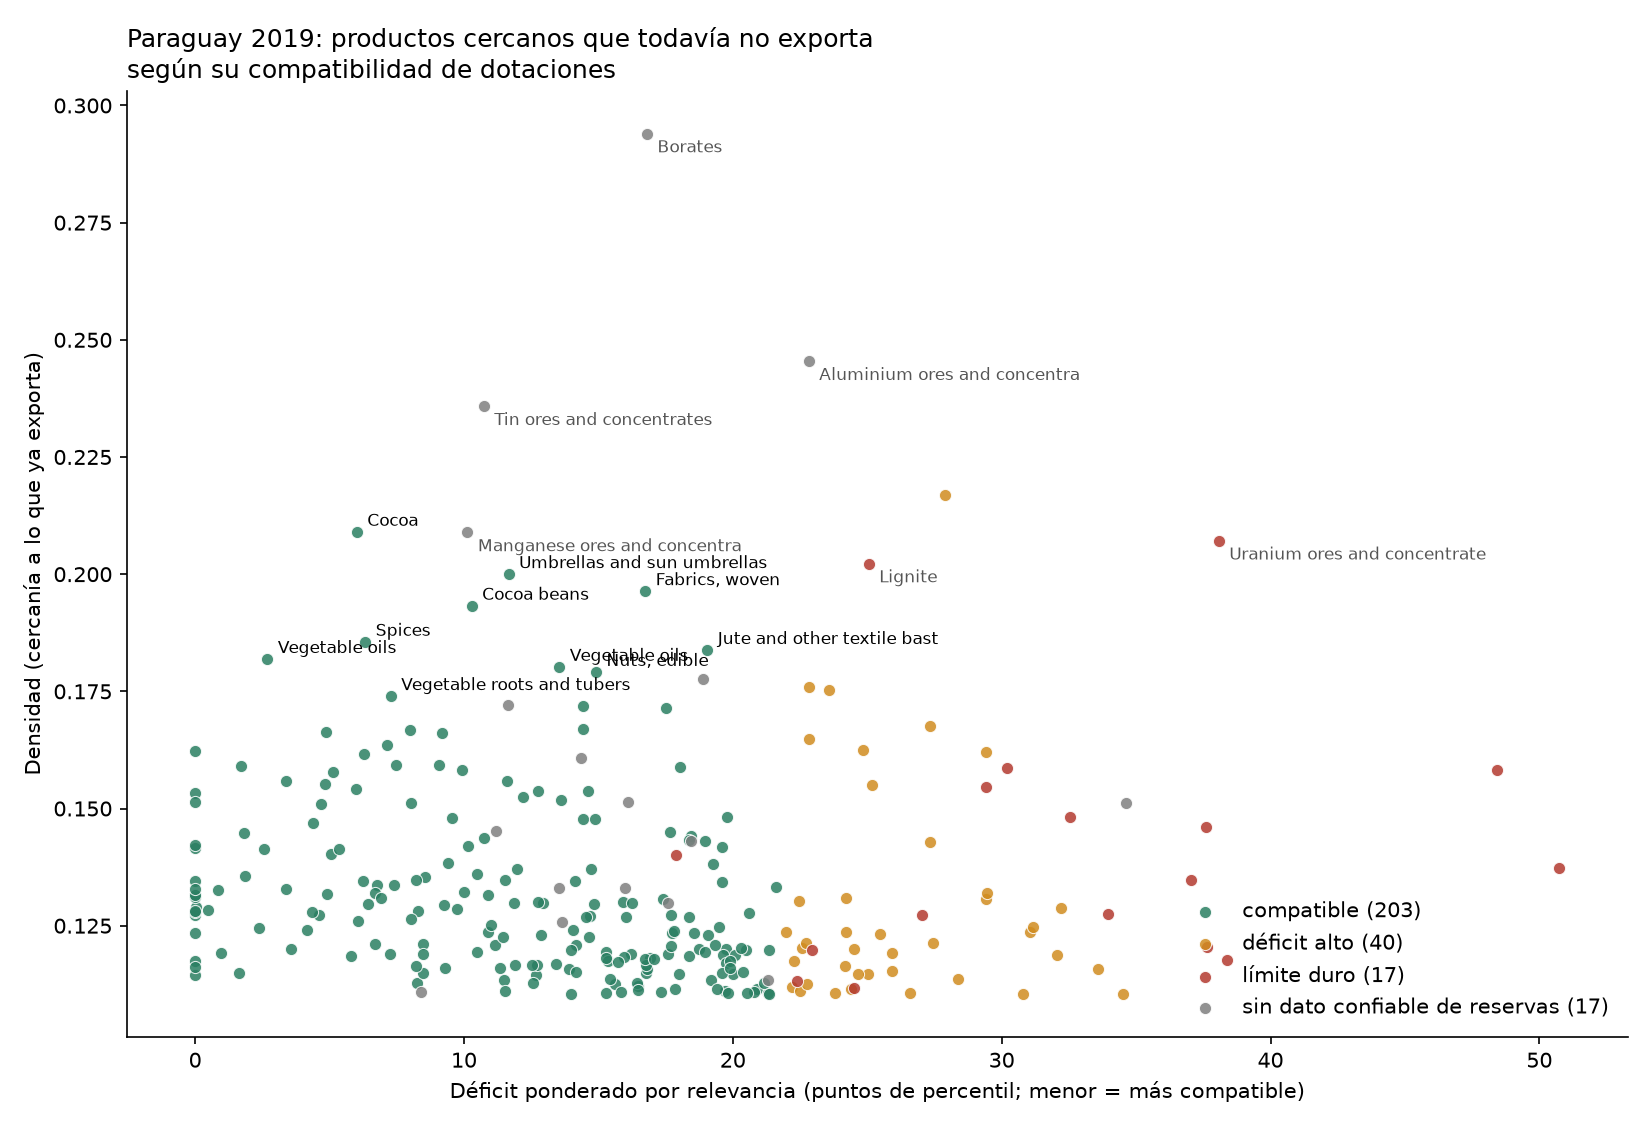
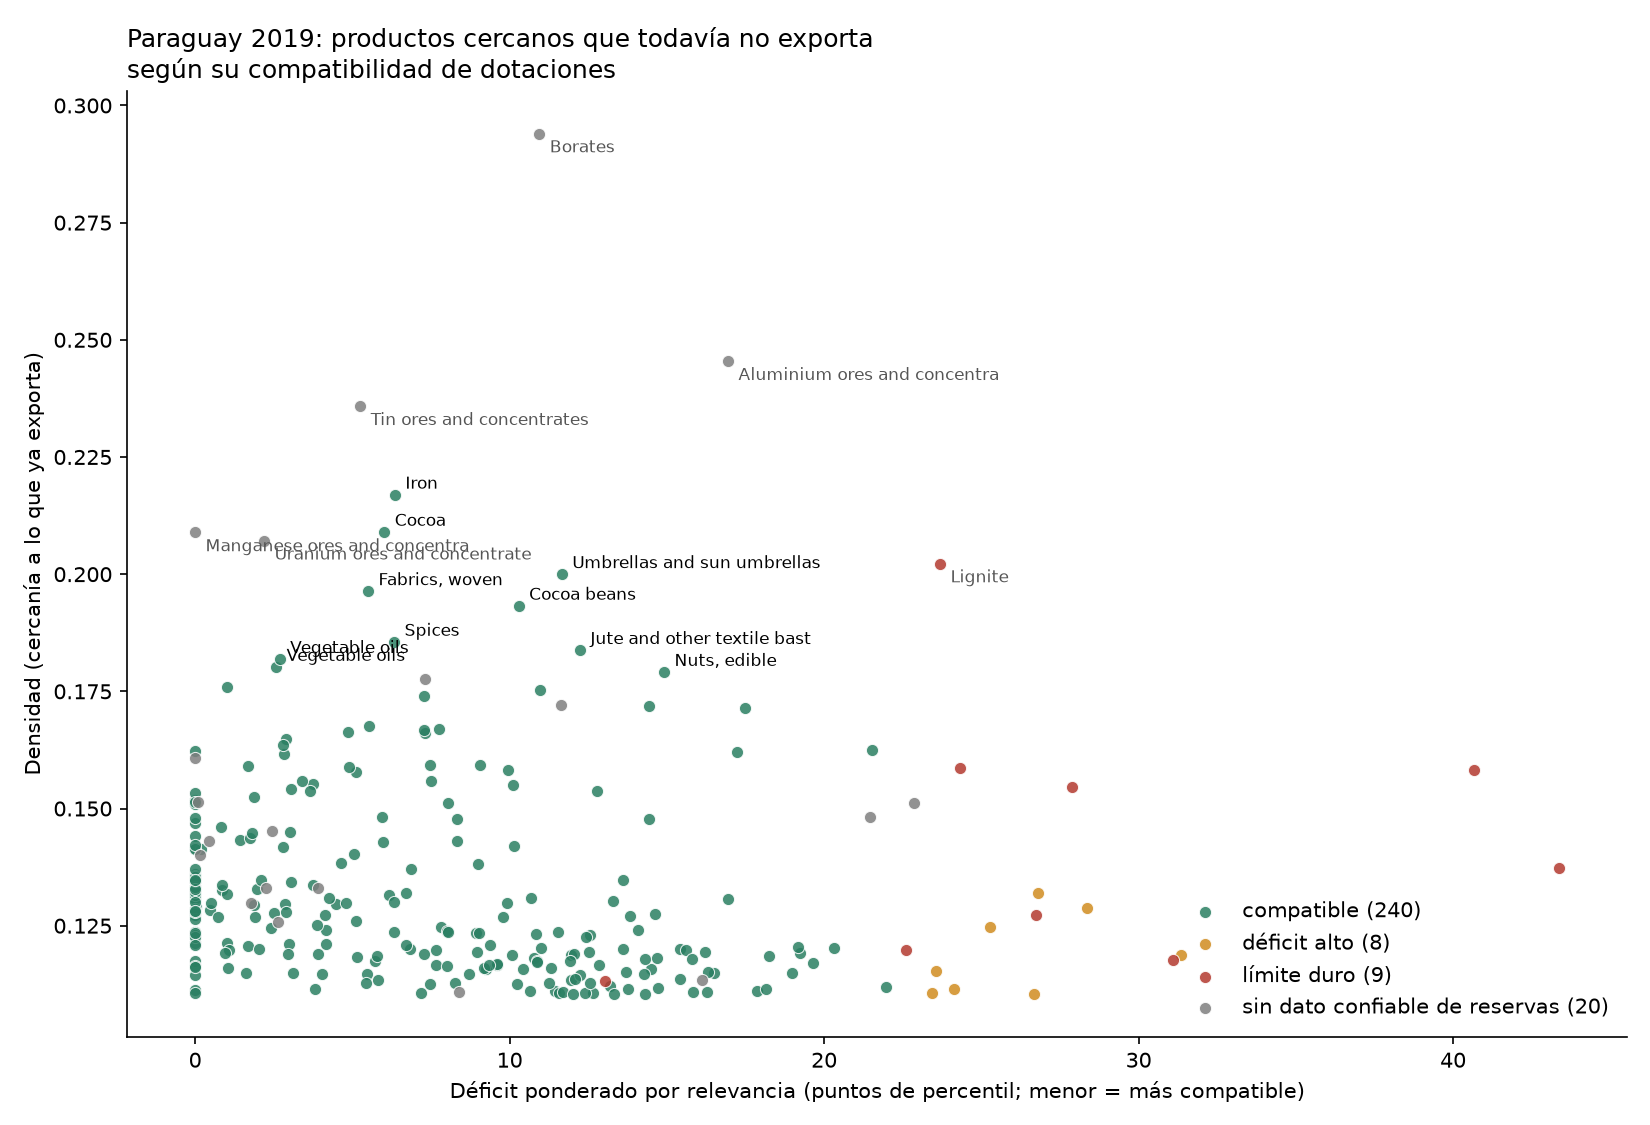
Mapa de limites: reservas de energia solo para los productos que son ese recurso; 9 limites duros entre los cercanos

diff --git a/src/modelos/mapa_limites.py b/src/modelos/mapa_limites.py
@@ -47,6 +47,7 @@ PCT_LIMITE = 10
 CAPA_MINERAL = "riqueza_mineral"  # en la variante específica, la reserva del mineral propio del producto
 PROP_PRODUCTORES_AUSENCIA = 0.75
 # Productos que dependen de una reserva mineral que el USGS no permite afirmar ausente: los 18 de `MINERALES` y el resto de los minerales (capítulo 26 del HS: uranio, circonio...), que el USGS no cubre
+RECURSO_DEL_PRODUCTO = {"l_petroleo": {"2709", "2710"}, "l_gas": {"2711"}, "l_carbon": {"2701", "2702", "2704"}}  # reservas de energía: solo para los productos que son ese recurso
 SIN_DATO_RESERVAS = set(MINERALES)
 ANIO = 2019
 
@@ -160,6 +161,14 @@ def pct_especifico(pct: np.ndarray, paises: list[str], productos: list[str], min
     return pct3, share
 
 
+def solo_recurso_propio(pct: np.ndarray, productos: list[str], capas: list[str], recursos: dict[str, set[str]] = RECURSO_DEL_PRODUCTO) -> np.ndarray:
+    """Copia de `pct` (países × productos × dotaciones) con las capas de `recursos` vacías en los productos que no son ese recurso."""
+    out = pct.copy()
+    for capa, hs4s in recursos.items():
+        out[:, [p for p, h in enumerate(productos) if h not in hs4s], capas.index(capa)] = np.nan
+    return out
+
+
 def limite_ausencia(share: np.ndarray, m: np.ndarray, i: int, minimo: int = MINIMO, prop: float = PROP_PRODUCTORES_AUSENCIA) -> np.ndarray:
     """Productos (booleano) donde el país `i` no tiene reservas del mineral y al menos `prop` de los productores (sin él) sí."""
     out = np.zeros(share.shape[1], bool)
@@ -191,6 +200,7 @@ def construir(expo: pd.DataFrame, dot: pd.DataFrame, pob: pd.DataFrame, puente: 
     share = None
     if minerales is not None:  # variante: reserva del mineral específico de cada producto
         pct, share = pct_especifico(pct, paises, productos, minerales, list(CAPAS).index(CAPA_MINERAL))
+        pct = solo_recurso_propio(pct, productos, list(CAPAS))
     pib = dot[dot.iso3.isin(paises)].set_index("iso3").reindex(paises).pib_pc_ppa
     grupo = terciles(pib).reindex(paises).map({"bajo": 0, "medio": 1, "alto": 2}).fillna(-1).to_numpy(int)
     ref = referencias(pct, m, grupo)["todos"]

diff --git a/tests/test_mapa_limites.py b/tests/test_mapa_limites.py
@@ -81,3 +81,10 @@ def test_estado_marca_sin_dato_de_reservas_solo_si_no_hay_limite_duro():
 
     tabla = pd.DataFrame({"hs4": ["2602", "2602", "0801", "0801"], "n_limites_duros": [0, 1, 0, 0], "compatible": [True, False, True, False]})
     assert ml.estado(tabla).tolist() == ["sin dato confiable de reservas", "límite duro", "compatible", "déficit alto"]
+
+
+def test_reservas_de_energia_solo_en_los_productos_que_son_ese_recurso():
+    pct = np.ones((2, 3, 2))
+    out = ml.solo_recurso_propio(pct, ["2701", "1206", "2709"], ["l_carbon", "x"], {"l_carbon": {"2701"}})
+    assert out[0, 0, 0] == 1.0 and np.isnan(out[:, 1:, 0]).all()  # el carbón solo cuenta para el 2701
+    assert (out[:, :, 1] == 1.0).all() and (pct == 1.0).all()  # otras capas intactas y el original no se modifica

diff --git a/src/modelos/evaluacion.py b/src/modelos/evaluacion.py
@@ -5,7 +5,8 @@ Uso:
     from src.modelos.evaluacion import precision_at_k, auc_pr, calibracion
 """
 
-from typing import Sequence
+from collections.abc import Sequence
+
 import numpy as np
 from sklearn.metrics import average_precision_score, roc_auc_score
 
@@ -14,8 +15,7 @@ def precision_at_k(y_true: Sequence[int], y_score: Sequence[float], k: int = 20)
     """Fracción de positivos en los k con mayor score."""
     y_true = np.asarray(y_true)
     y_score = np.asarray(y_score)
-    if k > len(y_score):
-        k = len(y_score)
+    k = min(k, len(y_score))
     idx = np.argsort(y_score)[::-1][:k]
     return float(y_true[idx].mean())
 

diff --git a/src/modelos/densidad.py b/src/modelos/densidad.py
@@ -3,9 +3,10 @@ Proximidad (φ) por ventana y densidad (D3).
 Versión con debug paso a paso.
 """
 
-import duckdb
 import sys
 import traceback
+
+import duckdb
 
 DB_PATH = r"C:\ever\tape\db\econofold.duckdb"
 VENTANAS = [(1995, 1999), (2000, 2004), (2005, 2009), (2010, 2014),
@@ -112,7 +113,7 @@ def main():
         try:
             calcular_phi(con, ini, fin)
             calcular_densidad(con, ini, fin)
-        except Exception as e:
+        except Exception:
             print(f"  ERROR en ventana {ini}-{fin}:")
             traceback.print_exc()
 

diff --git a/src/modelos/presencia.py b/src/modelos/presencia.py
@@ -24,6 +24,7 @@ Uso:
 """
 
 import argparse
+
 import duckdb
 
 VENTANAS = [(1995, 1999), (2000, 2004), (2005, 2009),
@@ -74,7 +75,7 @@ def main() -> None:
     ).fetchone()[0]
     print(f"  Pares (country, product, year) con persistencia: {n_persist:,}")
 
-    print(f"\n=== 2. Presencia por ventana (al menos un anio t en la ventana) ===")
+    print("\n=== 2. Presencia por ventana (al menos un anio t en la ventana) ===")
     for ini, fin in VENTANAS:
         tabla = f"presencia_{ini}_{fin}"
         con.execute(f"""

diff --git a/src/modelos/backtest.py b/src/modelos/backtest.py
@@ -8,9 +8,10 @@ Uso:
 """
 
 import argparse
+
 import duckdb
 
-from src.modelos.evaluacion import precision_at_k, auc_pr
+from src.modelos.evaluacion import auc_pr, precision_at_k
 from src.modelos.logit_disperso import LogitEfectosFijos
 
 VENTANAS = [

diff --git a/src/modelos/logit_densidad.py b/src/modelos/logit_densidad.py
@@ -8,9 +8,6 @@ Uso:
 """
 
 import duckdb
-import numpy as np
-import pandas as pd
-import statsmodels.api as sm
 import statsmodels.formula.api as smf
 
 DB_PATH = r"C:\ever\complejidad\econofold.duckdb"

diff --git a/src/modelos/panel.py b/src/modelos/panel.py
@@ -16,6 +16,7 @@ Uso:
 
 import argparse
 from pathlib import Path
+
 import duckdb
 
 HORIZONTES = [5, 10]

diff --git a/src/modelos/depurar.py b/src/modelos/depurar.py
@@ -12,6 +12,7 @@ Uso:
 """
 
 import argparse
+
 import duckdb
 
 HS_ITAIPU = "271600"

diff --git a/docs/supuestos.md b/docs/supuestos.md
@@ -77,3 +77,4 @@ Formato: fecha · decisión · alternativa descartada · motivo · quién decidi
 | 2026-10-14 | **Resultado de la variante «reserva del mineral específico» (`mapa_limites.py --especifico`).** (a) Control de sensatez cumplido: 80 % (85 de 106) de las exportaciones actuales de Paraguay compatibles; 218 de 277 cercanos compatibles; 17 con límite duro. (b) Validación: densidad 0,891, densidad + déficit ponderado 0,888: **no mejora** (criterio ≥ +0,005 no cumplido). (c) Exceso: coeficiente **+0,244** (p = 0,0004); tierra sola +0,69 (p < 0,001): **criterio no cumplido, signo contrario**, igual que antes. **La expectativa registrada NO se cumplió:** de los 18 productos minerales solo 3 quedan con límite duro (fosfatos 2510 por la capa mineral; cobre 2603 por carbón; otro por ausencia); manganeso (2602), bauxita (2606) y boratos (2528) siguen compatibles. Causa: la relevancia de la reserva específica es moderada (solo 3 de 18 con rel ≥ 0,5) y la regla de ausencia exige que ≥ 75 % de los productores tengan reservas en el USGS, que lista solo a los grandes poseedores (ausente = 0 subestima las reservas de los productores); los 18 productos tienen entre 8 y 56 productores en la muestra, así que no es falta de productores. No se reajustaron umbrales. Alternativas, que requerirían otra declaración: relajar la regla de ausencia (por ejemplo, participación mundial de los productores comparada con la del país, o el mineral exportado en RCA frente a la reserva), o reconocer que con USGS no se puede afirmar «Paraguay carece del recurso principal» y marcar esos productos como «sin dato de reservas» en lugar de compatibles. |
 | 2026-10-14 | **Camino 1 aplicado (estado «sin dato confiable de reservas»).** Los productos que dependen de una reserva mineral que el USGS no permite afirmar ausente (los 18 de `MINERALES` y el resto del capítulo 26 del HS) y no tienen límite duro dejan de contarse como compatibles. No es una prueba nueva ni cambia los criterios; es una etiqueta honesta. Resultado entre los 277 cercanos no exportados: 203 compatibles, 40 con déficit alto, 17 con límite duro, 17 sin dato confiable de reservas (borato, aluminio, manganeso, estaño, circonio y otros). Exportaciones actuales de Paraguay: 85 compatibles, 11 déficit alto, 10 límite duro. Figura: `docs/figuras/mapa_limites_PRY_2019.png`. Alerta: seda y semillas oleaginosas salen con límite duro por el carbón (dotaciones correlacionadas entre sí, relevancia revelada confundida), lo que debe revisar el equipo. |
 | 2026-10-14 | **DECLARACIÓN antes de correr (reservas solo para los productos que SON ese recurso).** Motivo: la relevancia revelada confunde dotaciones que coinciden geográficamente con los productores (semillas oleaginosas 1206 y seda 5003 salían con límite duro por el carbón porque sus productores están en Europa del Este y Asia Central; AUC del carbón 0,56 y 0,51; mediana de los productores en el percentil 84 y 78, Paraguay en el 23). **Cambio (en la variante `--especifico`):** las capas de reservas de petróleo, gas y carbón solo se definen para los productos que son ese recurso (por código HS4: petróleo 2709 y 2710; gas 2711; carbón 2701, 2702 y 2704; el 2702, lignito, se agrega a la lista de `recursos.py` solo aquí); la reserva del mineral específico ya estaba restringida a los 18 de `MINERALES`. En los demás productos esas capas quedan vacías: no entran a la relevancia, al límite duro, al déficit ni al exceso. Capital humano, capital por trabajador, logística, electricidad, salario, impuesto, tierra y agua siguen con relevancia revelada (la misma confusión geográfica puede afectarlas, no se corrige acá). Resto del diseño y umbrales sin cambios. **Criterios (sin cambios):** control de sensatez ≥ 50 % de las exportaciones actuales de Paraguay compatibles; mejora sobre la densidad solo si ≥ +0,005 de AUC; exceso con coeficiente < 0 y p < 0,05. **Expectativa registrada, no criterio:** quedan sin límite 1206, 5003, 2603, 2613, 2814, 7601, 2612 y 2844; permanecen con límite 2701, 2702, 2704, 2709, 2711, 2510 y los de capital humano, capital por trabajador o logística (2845, 8606, 5301); los límites duros de los 277 cercanos bajan de 17 a unos 10. |
+| 2026-10-14 | **Resultado de la declaración «reservas solo para los productos que son ese recurso».** Control de sensatez cumplido: 89 % (94 de 106) de las exportaciones actuales de Paraguay compatibles. Validación: densidad 0,891, densidad + déficit ponderado 0,888: no mejora (criterio ≥ +0,005 no cumplido). Exceso: coeficiente +0,266 (p < 0,001), tierra sola +0,69: criterio no cumplido, signo contrario. **La expectativa se cumplió:** límites duros entre los 277 cercanos: 9 (carbón 2701, lignito 2702, coque 2704, petróleo 2709, gas 2711, fosfatos 2510; isótopos 2845 y lino 5301 y vagones 8606 por capital humano, capital por trabajador o logística); sin límite quedan 1206, 5003, 2603 (pasa a «sin dato confiable de reservas»), 2613, 2814, 7601, 2612 y 2844. Estado de los 277: 240 compatibles, 8 déficit alto, 9 límite duro, 20 sin dato confiable de reservas. Alertas: uranio enriquecido (2844) y amoníaco (2814) salen compatibles aunque dependen de uranio y gas, porque su recurso no está en la lista de productos-recurso; aluminio (7601) depende de bauxita y energía. Hay que decidir si la lista de productos-recurso se amplía con derivados. |
